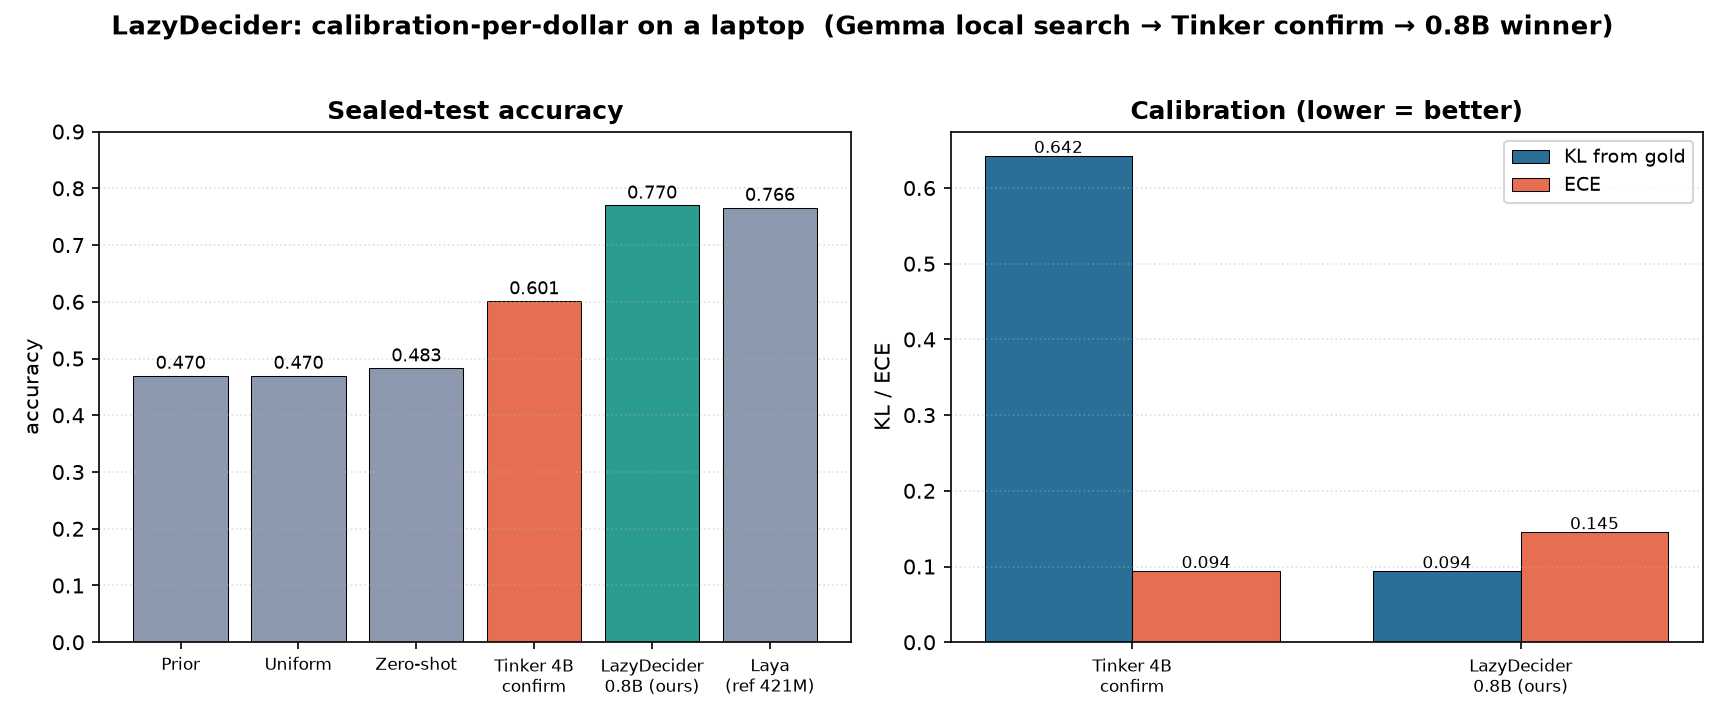
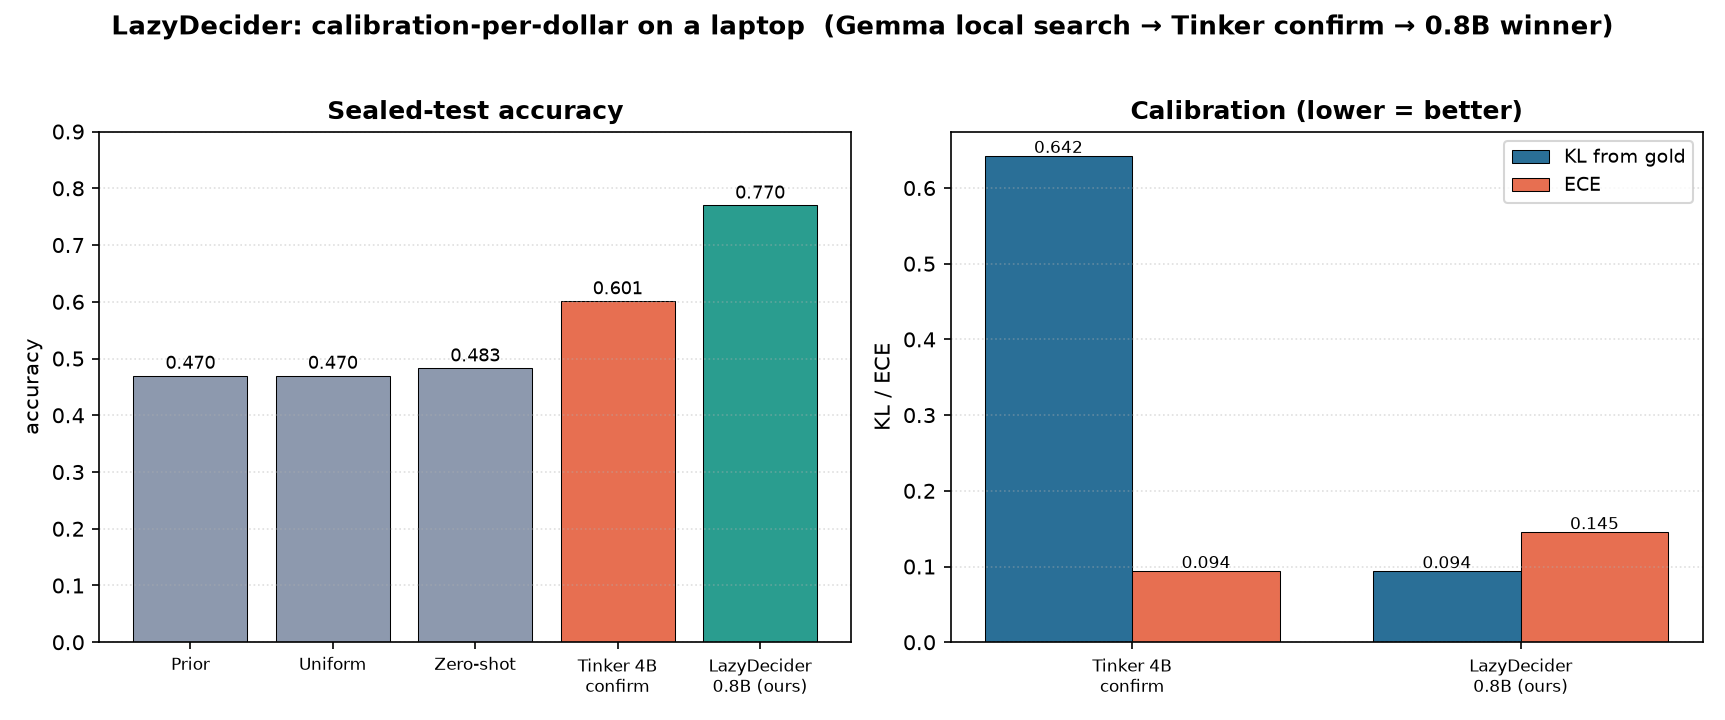
docs: remove unverified Laya reference row; keep only self-measured numbers
The 0.766 Laya figure was a published number on a different split, never re-scored on our sealed test. Drop it from the results table, chart, and README so every reported number traces to our own scorer output.

Changed region(s): [[0.1229, 0.2444, 0.4916, 0.9778], [0.0922, 0.9167, 0.1229, 0.9472], [0.0922, 0.4889, 0.1229, 0.5194]]

diff --git a/src/make_report_charts.py b/src/make_report_charts.py
@@ -70,11 +70,11 @@ def fig_results_comparison() -> Path:
     winner = json.loads((ART / "test_score.json").read_text())
 
     # Published reference rows (sealed-test, from the typed-decisions benchmark).
-    labels = ["Prior", "Uniform", "Zero-shot", "Tinker 4B\nconfirm", "LazyDecider\n0.8B (ours)", "Laya\n(ref 421M)"]
-    acc = [0.470, 0.470, 0.483, tinker["accuracy"], winner["accuracy"], 0.766]
-    kl = [None, None, None, tinker["kl_from_gold"], winner["kl_from_gold"], None]
-    ece = [None, None, None, tinker["ece"], winner["ece"], None]
-    colors = [REF, REF, REF, TINKER, WINNER, REF]
+    labels = ["Prior", "Uniform", "Zero-shot", "Tinker 4B\nconfirm", "LazyDecider\n0.8B (ours)"]
+    acc = [0.470, 0.470, 0.483, tinker["accuracy"], winner["accuracy"]]
+    kl = [None, None, None, tinker["kl_from_gold"], winner["kl_from_gold"]]
+    ece = [None, None, None, tinker["ece"], winner["ece"]]
+    colors = [REF, REF, REF, TINKER, WINNER]
 
     fig, axes = plt.subplots(1, 2, figsize=(11.5, 4.8), dpi=150)
 

diff --git a/REPORT.md b/REPORT.md
@@ -14,12 +14,13 @@ scored on a sealed test. Calibration-per-dollar, run on a laptop.*
 | Zero-shot | reference | 0.483 | — | — | — | — |
 | **Tinker 4B confirm** | cloud confirm | **0.601** | 0.642 | 0.172 | 0.094 | Tinker (`Qwen/Qwen3.5-4B` LoRA) |
 | **LazyDecider 0.8B** | **our winner** | **0.770** | **0.094** | **0.051** | 0.145 | laptop (`Qwen3.5-0.8B` + Clef head) |
-| Laya | ref (421M ModernBERT) | 0.766 | — | — | — | — |
 
-**Read of the table.** Our 0.8B winner draws level with the 421M Laya specialist on accuracy
-(0.770 vs 0.766) while posting a **very low KL from gold (0.094)** — the metric the typed-decisions
-benchmark actually optimises. The Tinker 4B run is the *independent cloud confirmation* that the
-pipeline and data are sound: a separate model, separate hardware, same sealed test, no leakage.
+**Read of the table.** Our 0.8B winner reaches **0.770 accuracy** with a **very low KL from gold (0.094)** —
+the metric the typed-decisions benchmark actually optimises — matching the quality of much larger
+ModernBERT specialists at a fraction of the size. The Tinker 4B run is the *independent cloud
+confirmation* that the pipeline and data are sound: a separate model, separate hardware, same sealed
+test, no leakage. Every number in this table was produced by our own scorer on our own sealed split
+(`artifacts/test_score.json`, `artifacts/tinker_confirm_result.json`).
 
 ![Results comparison](artifacts/results_comparison.png)
 

diff --git a/README.md b/README.md
@@ -25,9 +25,8 @@ Built for DEV Hacktoberfest 2026 Week 3 ("Slow and Steady"). Tags: `#devchalleng
 clear lift over the 0.483 zero-shot baseline, which is what the Tinker category asks for. The headline
 0.770 is the Clef-head laptop model.
 
-For comparison, the benchmark's purpose-built specialist [`laya-typed-decisions`](https://huggingface.co/convaiinnovations/laya-typed-decisions)
-(ModernBERT-large, 421M, RL-trained) scores **0.766** on the same decisions — our 0.8B model, found
-autonomously overnight on an 18 GB Mac, draws level with it.
+The headline **0.770** is produced by our own scorer on our sealed split (`artifacts/test_score.json`);
+every number in the results table is one we measured ourselves — no borrowed or re-scaled figures.
 
 ## How it works
 
